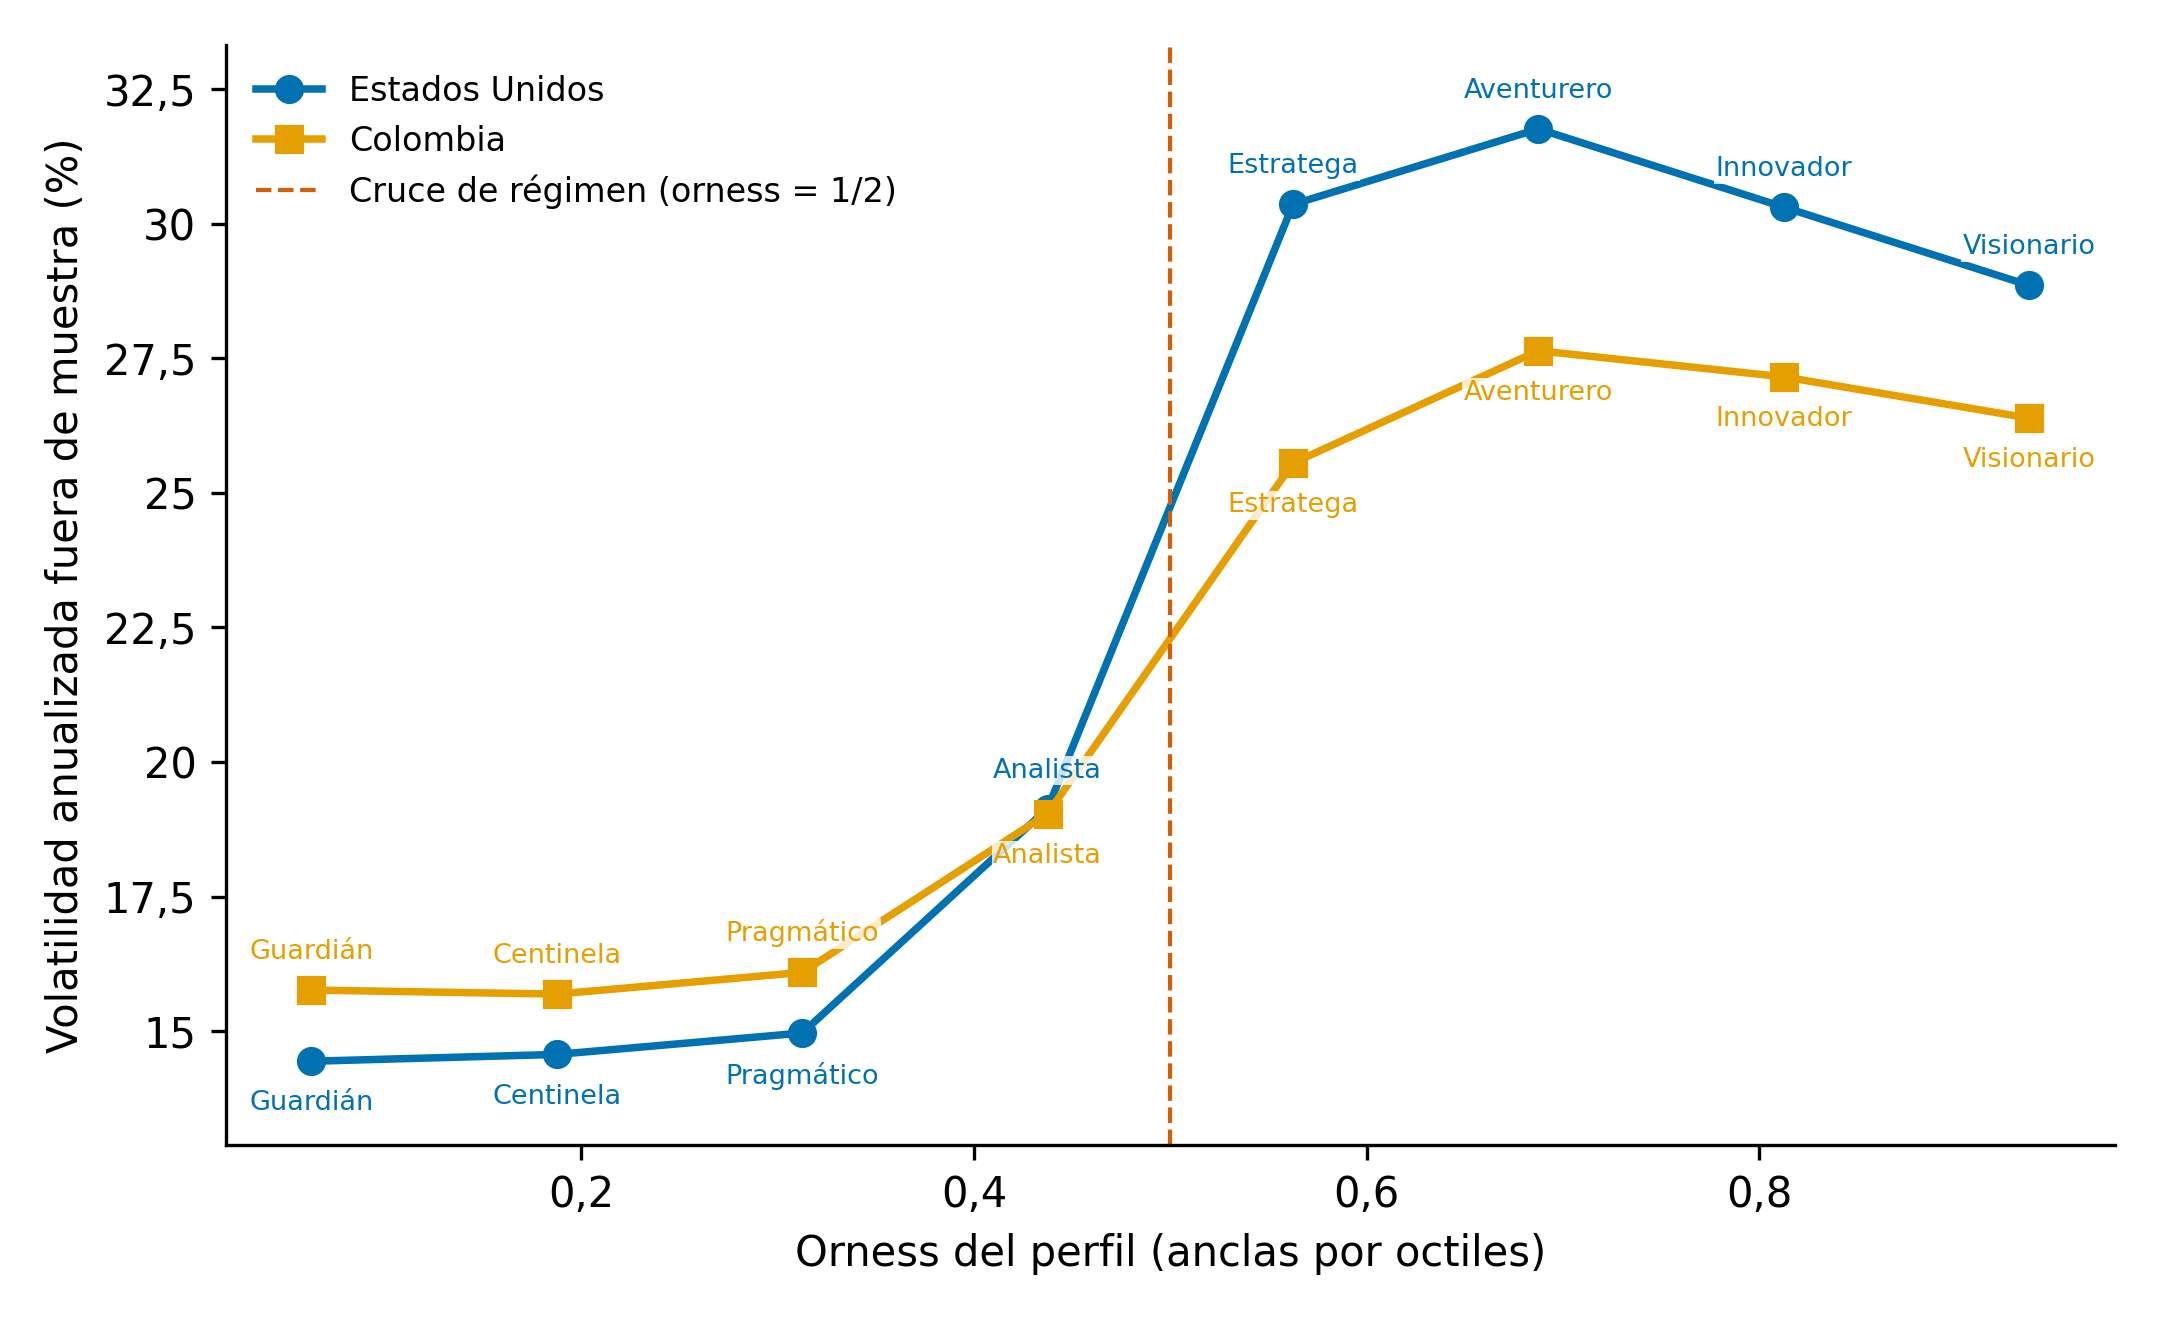
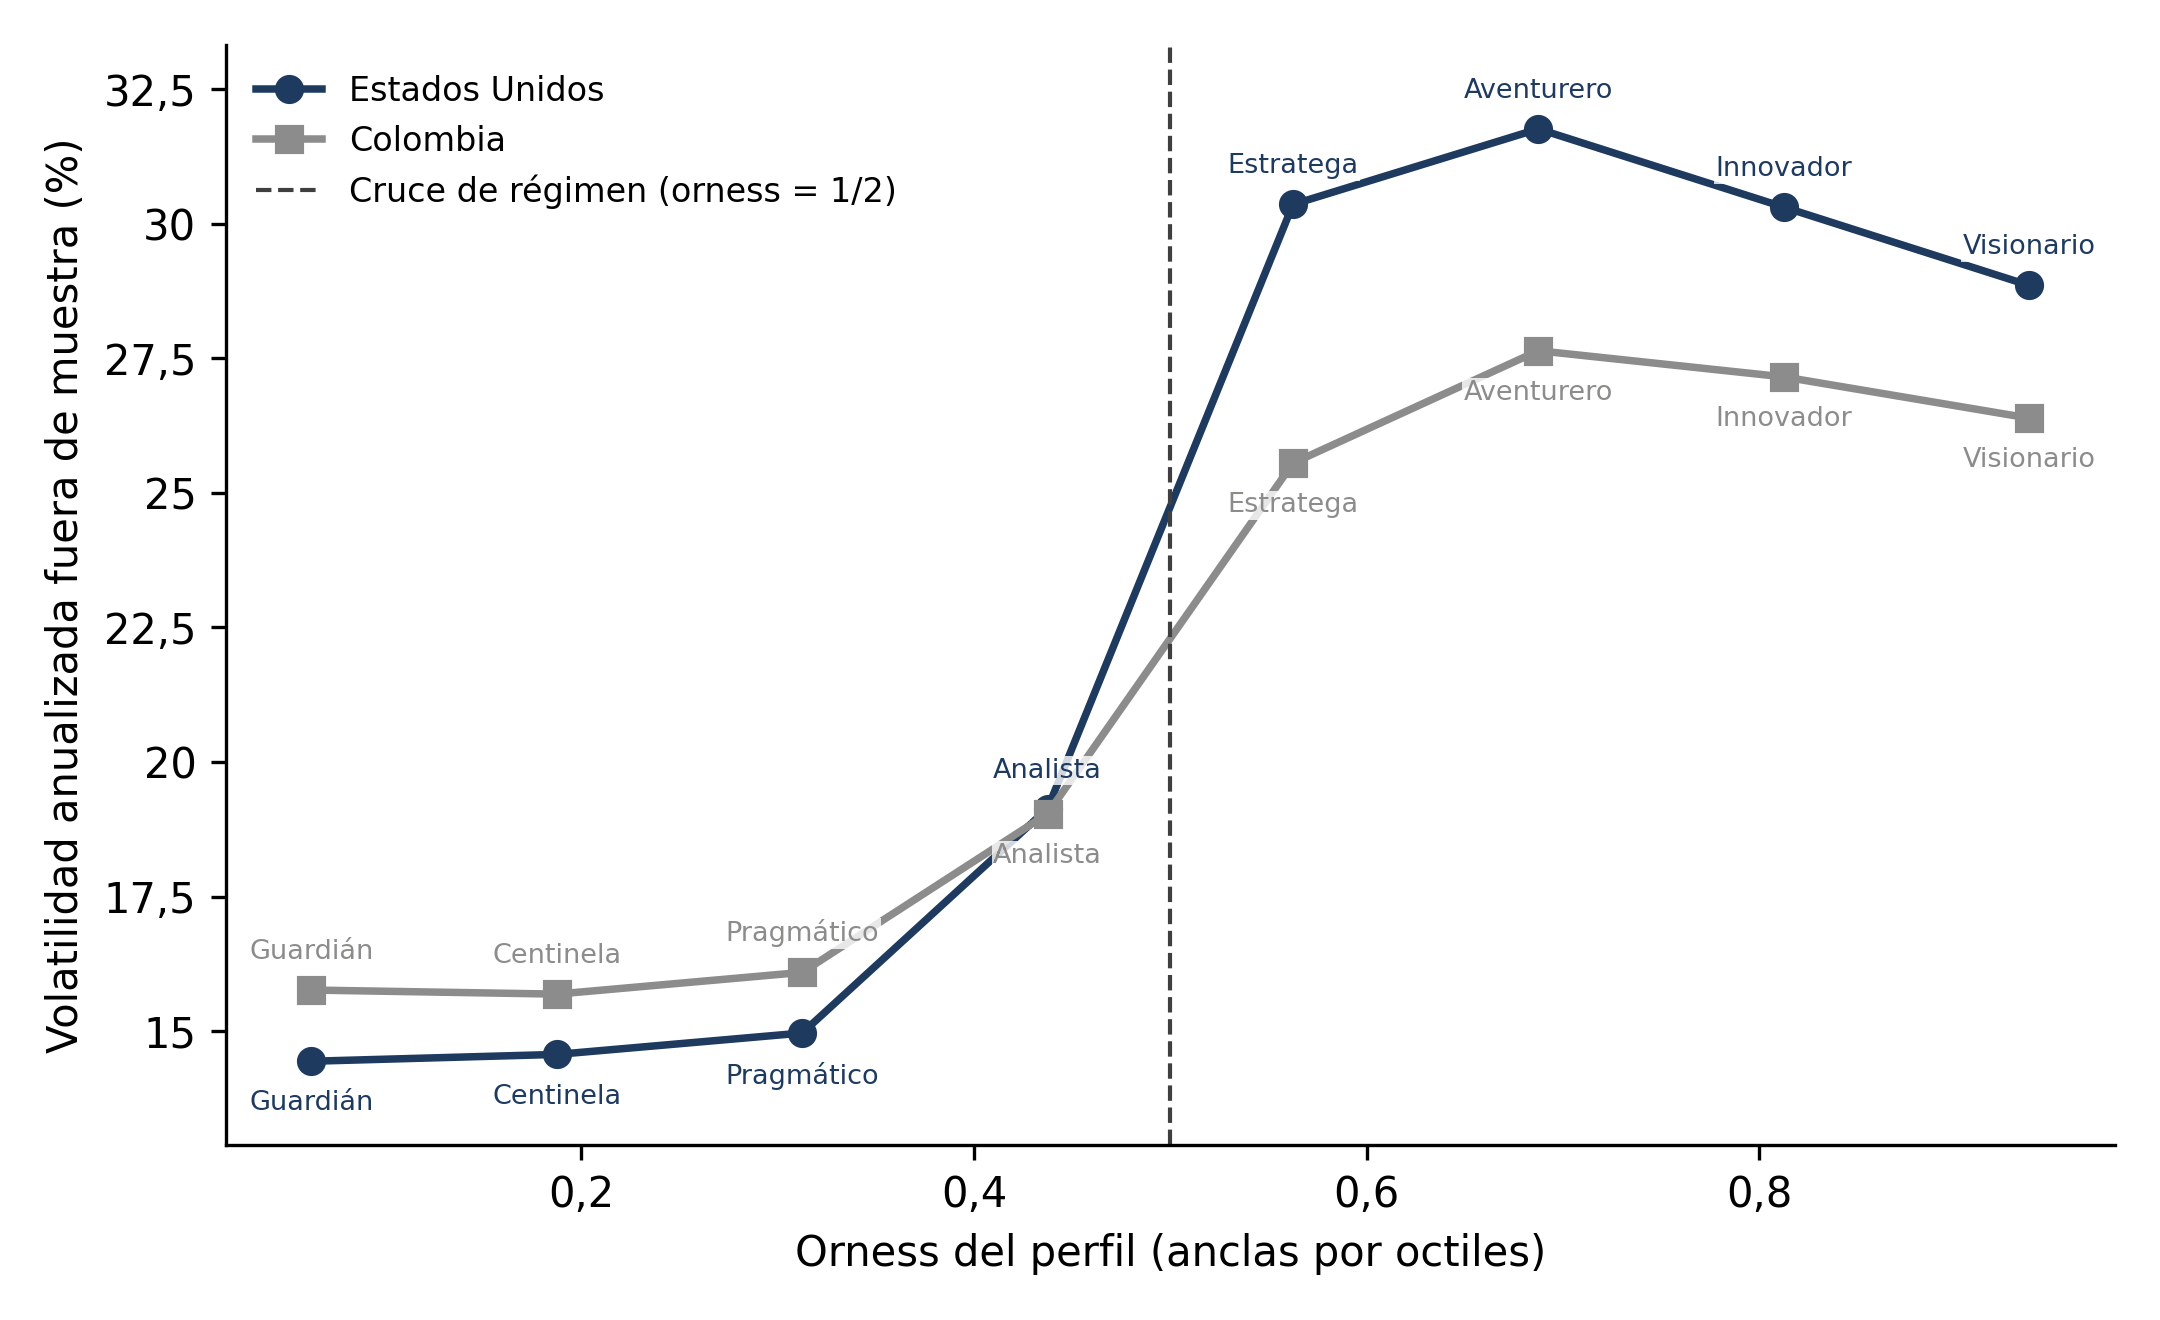
Figuras en paleta institucional (azul marino y grises)
Recolorea todas las figuras y los guiones que las generan; sin cambios de contenido ni de datos.
Figura 3.4 (prisma-repo): desglose de excluidos 161 + 48 + 8 = 217 y diagrama sin notas de proceso.

Claude-Session: https://claude.ai/code/session_0184E9JJGMmxaafh1wjWUT3s

diff --git a/scripts/fig_4_1_contraejemplo.py b/scripts/fig_4_1_contraejemplo.py
@@ -1,7 +1,7 @@
 """Figura 4.1 — Ilustración del Contraejemplo 1 (inversión conductual), rótulos en español y coma decimal.
 
 Dos activos con criterios c = (rentabilidad, estabilidad): A = (0,90; 0,50), B = (0,40; 1,00).
-Conservador: orness → 0 (criterio mínimo); agresivo: orness → 1 (criterio máximo). Okabe-Ito, 300 dpi.
+Conservador: orness → 0 (criterio mínimo); agresivo: orness → 1 (criterio máximo). azul marino y grises, 300 dpi.
 """
 import os
 import matplotlib
@@ -16,15 +16,15 @@ c = lambda v, d=2: f'{v:.{d}f}'.replace('.', ',')
 plt.rcParams.update({'font.family': 'DejaVu Sans', 'axes.spines.top': False, 'axes.spines.right': False})
 fig, ax = plt.subplots(figsize=(8, 4.4), dpi=300)
 x = [0, 1]; w = 0.35
-b1 = ax.bar([i - w / 2 for i in x], cons, w, color='#0072B2', edgecolor='black',
+b1 = ax.bar([i - w / 2 for i in x], cons, w, color='#1F3A5F', edgecolor='black',
             label='Conservador (orness→0, criterio mínimo)')
-b2 = ax.bar([i + w / 2 for i in x], agr, w, color='#D55E00', edgecolor='black',
+b2 = ax.bar([i + w / 2 for i in x], agr, w, color='#3F3F3F', edgecolor='black',
             label='Agresivo (orness→1, criterio máximo)')
 for bars in (b1, b2):
     for r in bars:
         ax.text(r.get_x() + r.get_width() / 2, r.get_height() + 0.015, c(r.get_height()), ha='center', va='bottom', fontsize=10)
 ax.annotate('El conservador prefiere A\n(el más volátil): inversión', xy=(-w / 2, cons[0] + 0.01), xytext=(0.2, 1.05),
-            color='#0072B2', fontsize=10, arrowprops=dict(arrowstyle='->', color='#0072B2'))
+            color='#1F3A5F', fontsize=10, arrowprops=dict(arrowstyle='->', color='#1F3A5F'))
 ax.set_xticks(x)
 ax.set_xticklabels([f'Activo A\n(crecimiento volátil)\nc = ({c(A[0])}; {c(A[1])})',
                     f'Activo B\n(defensivo)\nc = ({c(B[0])}; {c(B[1])})'])

diff --git a/scripts/fig_iowa.py b/scripts/fig_iowa.py
@@ -2,7 +2,7 @@
 fig_iowa.py — Figuras 4.2 y 8.2-8.4 de la tesis y descriptivos que las acompañan.
 
 Lee los resultados versionados (results/iowa y results/cap5, anclas por octiles) y
-escribe en figures/ (Okabe-Ito, fondo blanco, 300 dpi, rótulos en español, coma
+escribe en figures/ (azul marino y grises, fondo blanco, 300 dpi, rótulos en español, coma
 decimal):
   fig_4_2_espectros_octiles.png   espectros psi de los ocho perfiles (n = 7)
   fig_8_2_orness_efectivo_US.png  índice de estrés y orness efectivo por perfil en
@@ -31,8 +31,8 @@ RES, CAP5, FIG = f"{BASE}/results/iowa", f"{BASE}/results/cap5", f"{BASE}/figure
 os.makedirs(FIG, exist_ok=True)
 ES = {"Guardian": "Guardián", "Sentinel": "Centinela", "Pragmatist": "Pragmático", "Analyst": "Analista",
       "Strategist": "Estratega", "Adventurer": "Aventurero", "Innovator": "Innovador", "Visionary": "Visionario"}
-OK = {"naranja": "#E69F00", "celeste": "#56B4E9", "verde": "#009E73", "amarillo": "#F0E442",
-      "azul": "#0072B2", "bermellon": "#D55E00", "purpura": "#CC79A7", "negro": "#000000"}
+OK = {"naranja": "#8C8C8C", "celeste": "#9AACC2", "verde": "#4F6D8F", "amarillo": "#B8AE9C",
+      "azul": "#1F3A5F", "bermellon": "#3F3F3F", "purpura": "#8A7D72", "negro": "#000000"}
 COL_PERFIL = dict(zip(PERFILES, [OK["azul"], OK["celeste"], OK["verde"], OK["amarillo"],
                                  OK["naranja"], OK["bermellon"], OK["purpura"], OK["negro"]]))
 COL_REG = {"calma": OK["verde"], "normal": OK["celeste"], "estres": OK["naranja"], "crisis": OK["bermellon"]}

diff --git a/scripts/analyze_cap5.py b/scripts/analyze_cap5.py
@@ -7,7 +7,7 @@ Escribe en results/cap5/:
   tabla_5_3_dm.csv           Diebold-Mariano (HLN) de los contrastes declarados
   dispersion_resumen.csv     estabilidad del multi-start en el régimen no cóncavo
 y en figures/: fig_5_1_coherencia.png, fig_5_2_volatilidad_perfil.png,
-fig_5_3_vias_US.png (Okabe-Ito, fondo blanco, 300 dpi, rótulos en español).
+fig_5_3_vias_US.png (azul marino y grises, fondo blanco, 300 dpi, rótulos en español).
 
 Uso: python scripts/analyze_cap5.py
 """
@@ -25,7 +25,7 @@ RES = os.path.join(os.path.dirname(__file__), "..", "results", "cap5")
 FIG = os.path.join(os.path.dirname(__file__), "..", "figures"); os.makedirs(FIG, exist_ok=True)
 ES = {"Guardian": "Guardián", "Sentinel": "Centinela", "Pragmatist": "Pragmático", "Analyst": "Analista",
       "Strategist": "Estratega", "Adventurer": "Aventurero", "Innovator": "Innovador", "Visionary": "Visionario"}
-OK = ["#E69F00", "#56B4E9", "#009E73", "#F0E442", "#0072B2", "#D55E00", "#CC79A7", "#000000"]
+OK = ["#8C8C8C", "#9AACC2", "#4F6D8F", "#B8AE9C", "#1F3A5F", "#3F3F3F", "#8A7D72", "#000000"]
 coma = FuncFormatter(lambda x, _: f"{x:g}".replace(".", ","))
 plt.rcParams.update({"font.family": "DejaVu Sans", "axes.facecolor": "white", "figure.facecolor": "white"})
 

diff --git a/scripts/analyze_iowa.py b/scripts/analyze_iowa.py
@@ -29,7 +29,7 @@ BASE = os.path.join(os.path.dirname(__file__), "..")
 RES, CAP5, FIG = f"{BASE}/results/iowa", f"{BASE}/results/cap5", f"{BASE}/figures"
 ES = {"Guardian": "Guardián", "Sentinel": "Centinela", "Pragmatist": "Pragmático", "Analyst": "Analista",
       "Strategist": "Estratega", "Adventurer": "Aventurero", "Innovator": "Innovador", "Visionary": "Visionario"}
-OK = ["#E69F00", "#56B4E9", "#009E73", "#F0E442", "#0072B2", "#D55E00", "#CC79A7", "#000000"]
+OK = ["#8C8C8C", "#9AACC2", "#4F6D8F", "#B8AE9C", "#1F3A5F", "#3F3F3F", "#8A7D72", "#000000"]
 coma = FuncFormatter(lambda x, _: f"{x:g}".replace(".", ","))
 orn = np.array([ORNESS_OCTILES[p] for p in PERFILES])
 filas = []

diff --git a/scripts/fig_8_1_flujo.py b/scripts/fig_8_1_flujo.py
@@ -6,8 +6,8 @@ matplotlib.use("Agg")
 import matplotlib.pyplot as plt
 from matplotlib.patches import FancyBboxPatch
 
-OK = {"naranja": "#E69F00", "celeste": "#56B4E9", "verde": "#009E73", "amarillo": "#F0E442",
-      "azul": "#0072B2", "bermellon": "#D55E00", "purpura": "#CC79A7", "gris": "#999999"}
+OK = {"naranja": "#8C8C8C", "celeste": "#9AACC2", "verde": "#4F6D8F", "amarillo": "#B8AE9C",
+      "azul": "#1F3A5F", "bermellon": "#3F3F3F", "purpura": "#8A7D72", "gris": "#999999"}
 fig, ax = plt.subplots(figsize=(12, 4.9), facecolor="white")
 ax.set_xlim(0, 12); ax.set_ylim(0, 4.9); ax.axis("off")
 
